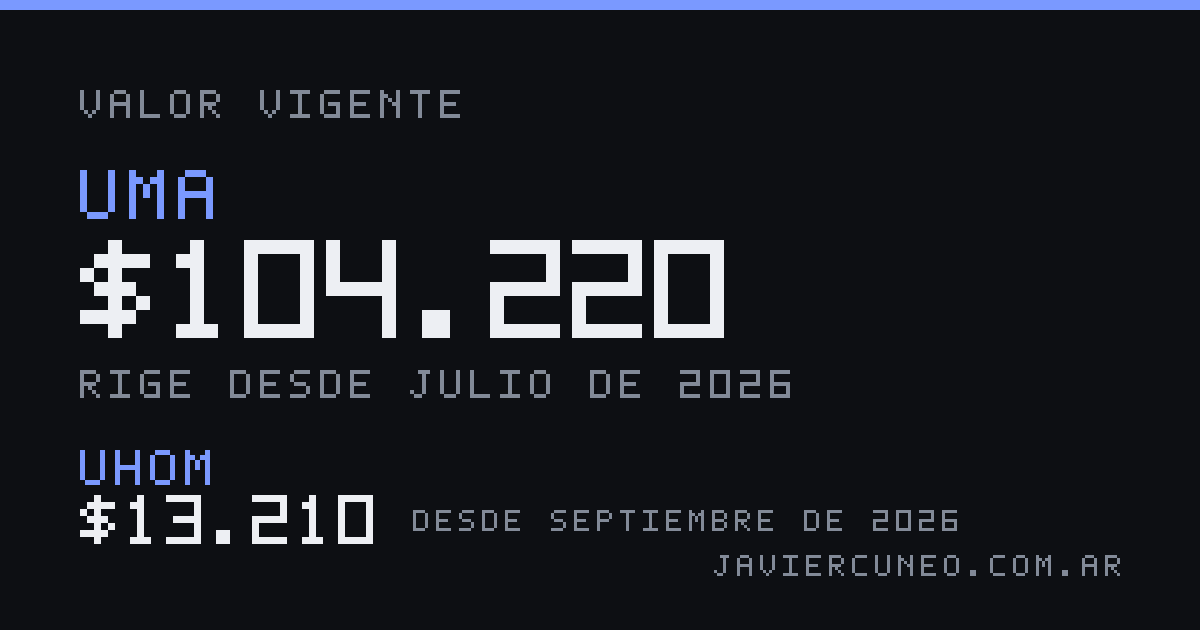
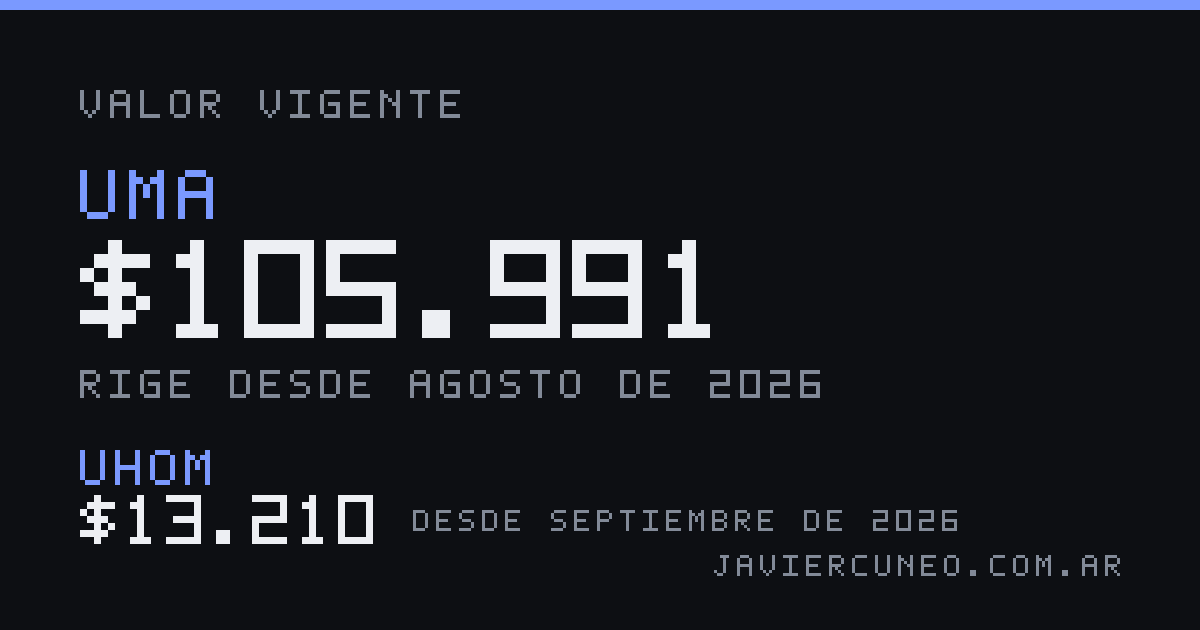
feat(uma): la Res. SGA 2372/2026, y la UMA se carga sola desde ahora
La serie tiene $105.991 desde el 1/8/2026, leída del resolutivo de la
2372. uma-uhom, el tablero y prorrateo seguían con la de julio porque el
workflow de Honorio sólo toca su repositorio.

uma.yml corre todos los días: toma de honorio.ar/uma.json sólo el aviso y
el enlace, y lee valor, vigencia y fecha del acto del PDF de la CSJN. Si
las dos fuentes no coinciden, no carga nada y la corrida queda en rojo.
Probado contra la carga manual: el archivo queda idéntico.

feriados.yml pide ahora el deploy con gh workflow run: el push del bot
no disparaba Deploy Pages, aunque el comentario dijera que sí.

diff --git a/uma-uhom.html b/uma-uhom.html
@@ -299,11 +299,12 @@ tbody tr.futuro td { color: var(--faint); }
         <dt>UMA</dt>
         <dd>
           La fija la Corte Suprema por resolución, y la resolución dice desde
-          cuándo. La 1930/2026 es del 20 de agosto de 2026 y dice:
+          cuándo. Por ejemplo, la 2372/2026 es del 24 de septiembre de 2026 y
+          dice:
           <blockquote>
             «…el valor de la Unidad de Medida Arancelaria (UMA) equivale a la
-            suma de PESOS CIENTO CUATRO MIL DOSCIENTOS VEINTE ($104.220) a
-            partir del primero de julio de 2026».
+            suma de pesos ciento cinco mil novecientos noventa y uno ($105.991)
+            a partir del primero de agosto de 2026».
           </blockquote>
         </dd>
       </div>

diff --git a/docs/HISTORIA.md b/docs/HISTORIA.md
@@ -19,6 +19,34 @@ de 2026.
 
 ---
 
+## La UMA deja de cargarse a mano — 24/9
+
+Javier corrió el workflow de la UMA en Honorio por la Res. SGA 2372/2026
+($105.991 desde el 1/8). honorio.ar la tuvo enseguida, y también el ledger, que
+lee `honorio.ar/uma.json`. Este sitio no: el tablero, `uma-uhom` y `prorrateo`
+leen `data/serie-uma.json`, que se cargaba a mano, y el workflow de Honorio
+sólo toca su repositorio. Javier: «esa actualización manual es un perno».
+
+**Lo que no se podía perder al automatizar era la promesa de la serie**: cada
+valor se lee del acto y no de una tabla ajena. Por eso la planilla que captura
+Honorio quedó como aviso y enlace, y lo que va a la serie —importe, vigencia,
+número y fecha del acto— sale del PDF de la CSJN con `pdftotext`, del punto
+resolutivo. Las dos fuentes tienen que coincidir o no se carga nada.
+
+**Cómo se probó.** Se volvió la serie a como estaba antes de cargar la 2372 a
+mano, se corrió `scripts/actualizar-uma.mjs` y el archivo quedó idéntico byte a
+byte al de la carga manual; una segunda pasada dijo «nada nuevo». El lector
+también leyó bien las tres resoluciones con enlace de la serie (1785, 1930 y
+2372 de 2026). Las anteriores no tienen URL cargada y no se probaron.
+
+**De paso, `feriados.yml` tenía el error que Honorio ya había encontrado**: su
+comentario decía que el push del bot disparaba Deploy Pages, y no es así (un
+push con el `GITHUB_TOKEN` no dispara workflows). Ahora pide el deploy igual que
+`uma.yml`. La cita de `uma-uhom.html` pasó a la 2372, presentada como ejemplo
+para que no parezca vieja cuando salga la próxima.
+
+---
+
 ## Los días inhábiles propios — 22/9
 
 Pedido de Javier: que quien usa las calculadoras de plazos pueda agregar sus

diff --git a/docs/ESTADO.md b/docs/ESTADO.md
@@ -154,9 +154,16 @@ Ninguno urgente y ninguno bloqueante.
   archivo— pero **la alarma es indistinguible de una auténtica**. Si molesta, lo
   que hay que cambiar es el script, para que distinga «el año que viene todavía
   no existe» de «la API no contesta».
-- **Las tres series se cargan a mano** —`data/serie-uma.json`,
-  `data/serie-uhom.json` y `data/tasa-monto-fijo.json`—: los actos de la CSJN y
-  las tablas del Ministerio son PDFs sin API. **`npm run verificar-series` no
+- **La UMA se carga sola desde el 24/9**: `.github/workflows/uma.yml`, todos
+  los días, y a mano desde Actions o con `npm run uma`. La planilla de Honorio
+  (`honorio.ar/uma.json`) es **sólo el aviso**: valor, vigencia y fecha del acto
+  se leen del PDF de la CSJN, y si no coinciden con la planilla no carga nada y
+  la corrida queda en rojo. **Un rojo ahí es «cargala a mano»**: PDF sin texto,
+  una acordada en vez de una resolución SGA, o un resolutivo distinto. Pide el
+  deploy con `gh workflow run`, igual que `feriados.yml` desde ese día: antes
+  el push del bot no publicaba nada.
+- **El UHOM y el monto fijo siguen a mano** —`data/serie-uhom.json` y
+  `data/tasa-monto-fijo.json`—: las tablas del Ministerio son PDFs sin API. **`npm run verificar-series` no
   puede detectar que falte el último**: detecta que lo cargado esté mal. El que
   avisa es la propia página, si pasaron más de 45 días sin revisarlas.
   **La del monto fijo del art. 6 es la más lenta y por eso la más fácil de
